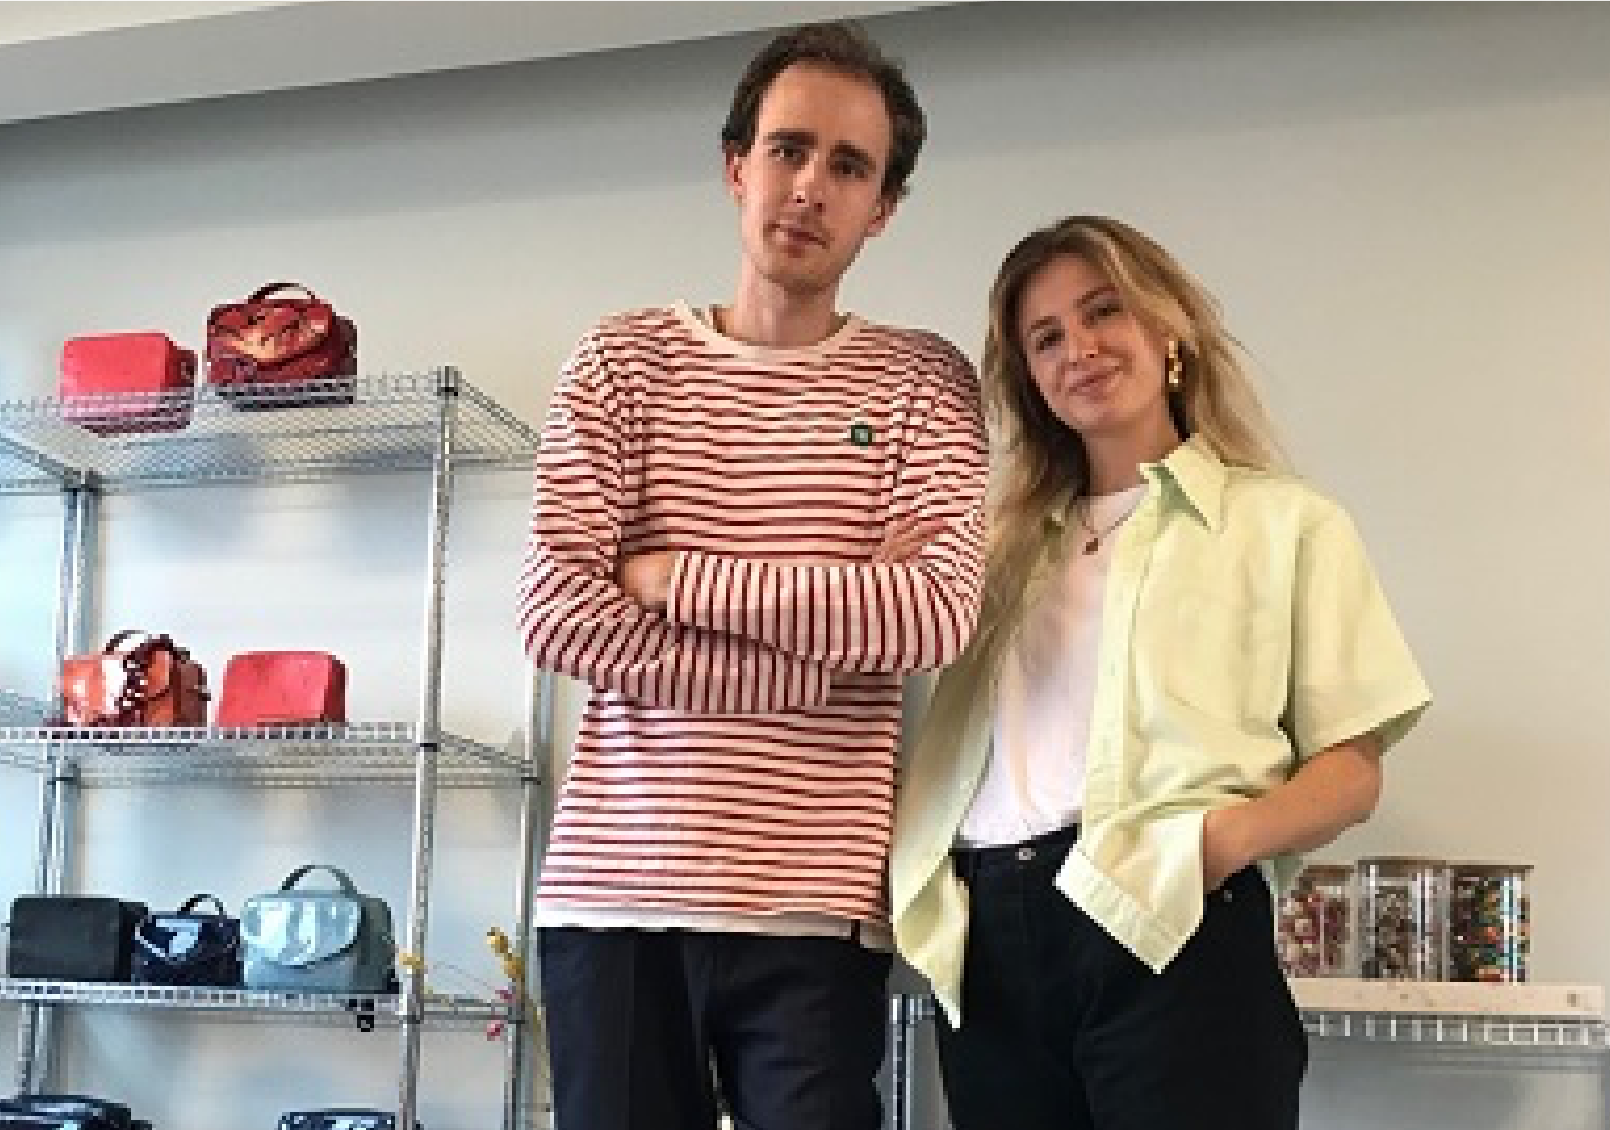
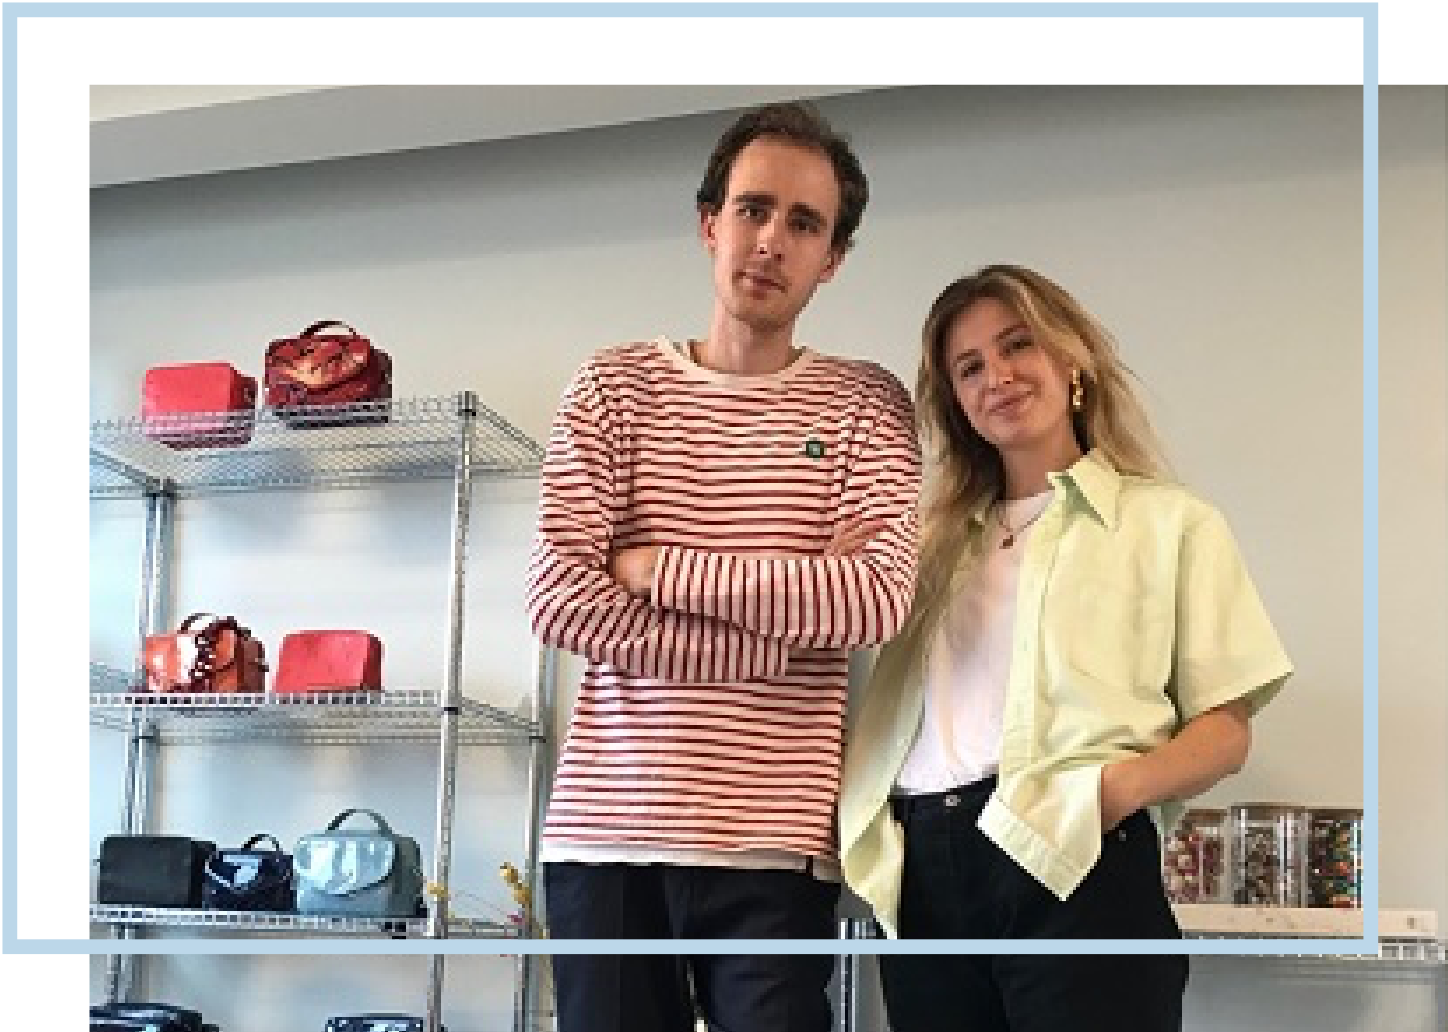
res

diff --git a/style.css b/style.css
@@ -1662,7 +1662,6 @@ footer section {
 /*------------------------------------- ABOUT SILFEN ----------------------------------------------- */
 /*------------------------------------- ABOUT SILFEN ----------------------------------------------- */
 #aboutsilfen-page {
-  text-transform: uppercase;
   letter-spacing: 2px;
   line-height: 34px;
   padding: 1.5rem;
@@ -1673,7 +1672,6 @@ footer section {
 }
 
 .aboutsilfen-page-img {
-  box-shadow: 15px 30px 0px 0px #bcd7e9;
   margin: 2rem;
 }
 .aboutsilfen-text p {
@@ -1686,17 +1684,29 @@ footer section {
 }
 
 .thefounders-img {
-  box-shadow: 24px 9px 0px 5px #bcd7e9;
   margin: 2rem;
 }
 .thefounders-text p {
+  text-transform: none;
   padding-top: 2rem;
   margin: 1rem;
   text-align: left;
 }
 
-.meettheteam-title {
-  margin-top: 5rem;
+.meettheteam-title h1{
+  margin-top: 2rem;
+}
+
+.meettheteam-title h1{
+  font-size: 1.7rem;
+}
+
+.about-silfen-title h1{
+  font-size: 1.7rem;
+}
+
+.founders h1{
+  font-size: 1.7rem;
 }
 
 .container-1 {
@@ -1712,34 +1722,33 @@ footer section {
 }
 
 .container-1 div {
-  /* border: 1px #ccc solid; */
   margin: 2rem;
-  padding-bottom: 1rem;
+  /* padding-bottom: 1rem; */
 }
 
 .theteam-img-daniel {
-  box-shadow: -26px -25px 0px 1px #bcd7e9;
+  
   margin: 2rem;
 }
 
 .theteam-img-celine {
-  box-shadow: 26px -25px 0px 1px #bcd7e9;
+
   margin: 2rem;
 }
 .theteam-img-nikolaj {
-  box-shadow: -26px -25px 0px 1px #bcd7e9;
+  
   margin: 2rem;
 }
 .theteam-img-emma {
-  box-shadow: 26px -25px 0px 1px #bcd7e9;
+
   margin: 2rem;
 }
 .theteam-img-siri {
-  box-shadow: -26px -25px 0px 1px #bcd7e9;
+  
   margin: 2rem;
 }
 .theteam-img-yasmin {
-  box-shadow: 26px -25px 0px 1px #bcd7e9;
+
   margin: 2rem;
 }
 
@@ -2314,6 +2323,22 @@ font-size: 1.8rem;
     display: inherit;
     margin: 2rem;
   }
+
+  .meettheteam-title h1{
+    margin-left: 2rem; 
+    font-size: 2rem;
+  }
+  
+  .about-silfen-title h1{
+    margin-left: 2rem; 
+    font-size: 2rem;
+  }
+  
+  .founders h1{
+    margin-left: 2rem; 
+    font-size: 2rem;
+  }
+
 }
 
 @media screen and (min-width: 900px) {
@@ -2967,6 +2992,17 @@ margin-left: 17rem;
     display: inherit;
     margin: 2rem;
   }
+
+  .thefounders-img {
+    padding-right: 10rem; 
+    padding-left: 10rem; 
+    /* width: 60%; */
+  }
+  .aboutsilfen-page-img {
+    margin-right: 8rem; 
+    margin-left: 8rem; 
+  }
+
   /* ~~~~~~~sustainable page~~~~~~~ */
   .sub-section-1 {
     display: grid;
@@ -3355,22 +3391,29 @@ margin-left: 17rem;
      font-size: 2.5rem; 
   }
   /* ~~~~ABOUT SILFEN PAGE~~~~~ */
+
+  .thefounders-img {
+    padding-right: 0rem; 
+    padding-left: 0rem; 
+    /* width: 60%; */
+  }
+  .aboutsilfen-page-img {
+    margin-right: 0rem; 
+    margin-left: 0rem; 
+  }
+
   .grid-container {
     display: grid;
     grid-template-columns: 1fr 1fr;
     grid-template-rows: 1fr;
   }
-  .aboutsilfen-text p {
-    font-size: 1rem;
-  }
+
   .grid-container2 {
     display: grid;
     grid-template-columns: 1fr 1fr;
     grid-template-rows: 1fr;
   }
-  .thefounders-text p {
-    font-size: 1.1rem;
-  }
+ 
   .thefounders-img {
     box-shadow: none;
     display: grid;
@@ -3447,10 +3490,10 @@ margin-left: 17rem;
     border: 5px solid var(--light-blue-color);
   }
   .thefounders-img {
-    width: 70%;
+    width: 80%;
   }
   .aboutsilfen-page-img {
-    width: 70%;
+    width: 90%;
   }
   /* ~~~~sustainable page~~~~~ */
   .sustainability-text p {
@@ -3621,30 +3664,24 @@ margin-left: 17rem;
 /* ~~~~~~~~~~~~about silfen page~~~~~~~~~~~~ */
 
 #aboutsilfen-page {
-  text-transform: uppercase;
+  text-transform:none; 
   letter-spacing: 2px;
   line-height: 34px;
   padding: 1.5rem;
 }
 
-.aboutsilfen-page-img {
-  box-shadow: 15px 30px 0px 0px #bcd7e9;
-  margin: 2rem;
-}
 .aboutsilfen-text p {
   padding-top: 2rem;
   margin: 1rem;
-  font-size: 1rem;
+  text-transform:none; 
 }
 
 .thefounders-img {
-  box-shadow: 24px 9px 0px 5px #bcd7e9;
   margin: 2rem;
 }
 .thefounders-text p {
-  padding-top: 2rem;
   margin: 1rem;
-  font-size: 1rem;
+  text-transform:none; 
 }
 
 .meettheteam-title h2 {
@@ -3654,33 +3691,33 @@ margin-left: 17rem;
 .team-boxes {
   display: inline-block;
   text-align: center;
-  text-transform: uppercase;
+  text-transform:none; 
   font-weight: 800;
   margin: 1rem;
 }
 
 .theteam-img-daniel {
-  box-shadow: 15px 30px 0px 0px #bcd7e9;
+  text-transform:none; 
   margin: 2rem;
 }
 .theteam-img-celine {
-  box-shadow: 26px -25px 0px 1px #bcd7e9;
+  text-transform:none; 
   margin: 2rem;
 }
 .theteam-img-nikolaj {
-  box-shadow: 0px 18px 0px 0px #bcd7e9;
+  text-transform:none; 
   margin: 2rem;
 }
 .theteam-img-emma {
-  box-shadow: 30px -40px 0px 1px #bcd7e9;
+  text-transform:none; 
   margin: 2rem;
 }
 .theteam-img-siri {
-  box-shadow: 8px 20px 0px 0px #bcd7e9;
+  text-transform:none; 
   margin: 2rem;
 }
 .theteam-img-yasmin {
-  box-shadow: 26px -25px 0px 0px #bcd7e9;
+  text-transform:none; 
   margin: 2rem;
 }
 

diff --git a/aboutsilfen.html b/aboutsilfen.html
@@ -110,7 +110,7 @@ Both have a deep passion for Danish design and growing up, their childhood was f
     <div class="container-1">
       <div class="box-1">
         <div class="theteam-img-daniel">
-        <img alt="theteam" src="assets/about-img.png">
+        <img alt="theteam" src="assets/team-daniel.png">
         <h3>Daniel</h3>
         <p>Product Manager</p>
         </div>
@@ -118,15 +118,15 @@ Both have a deep passion for Danish design and growing up, their childhood was f
     
       <div class="box-2">
         <div class="theteam-img-celine">
-        <img alt="theteam" src="assets/about-img.png">
-        <h3>celine</h3>
+        <img alt="theteam" src="assets/team-celine.png">
+        <h3>Celine</h3>
         <p>Product Manager</p>
       </div>
     </div>
     
       <div class="box-3">
         <div class="theteam-img-nikolaj">
-        <img alt="theteam" src="assets/about-img.png">
+        <img alt="theteam" src="assets/team-nikolaj.png">
         <h3>Nikolaj</h3>
         <p>Product Manager</p>
       </div>
@@ -134,7 +134,7 @@ Both have a deep passion for Danish design and growing up, their childhood was f
     
       <div class="box-4">
         <div class="theteam-img-emma">
-        <img alt="theteam" src="assets/about-img.png">
+        <img alt="theteam" src="assets/team-emma.png">
         <h3>Emma</h3>
         <p>Product Manager</p>
       </div>
@@ -142,7 +142,7 @@ Both have a deep passion for Danish design and growing up, their childhood was f
     
       <div class="box-5">
         <div class="theteam-img-siri">
-        <img alt="theteam" src="assets/about-img.png">
+        <img alt="theteam" src="assets/team-siri.png">
         <h3>Siri</h3>
         <p>Product Manager</p>
       </div>
@@ -150,7 +150,7 @@ Both have a deep passion for Danish design and growing up, their childhood was f
     
       <div class="box-6">
         <div class="theteam-img-yasmin">
-        <img alt="theteam" src="assets/about-img.png">
+        <img alt="theteam" src="assets/team-yasmine.png">
         <h3>Yasmin</h3>
         <p>Product Manager</p>
       </div>
